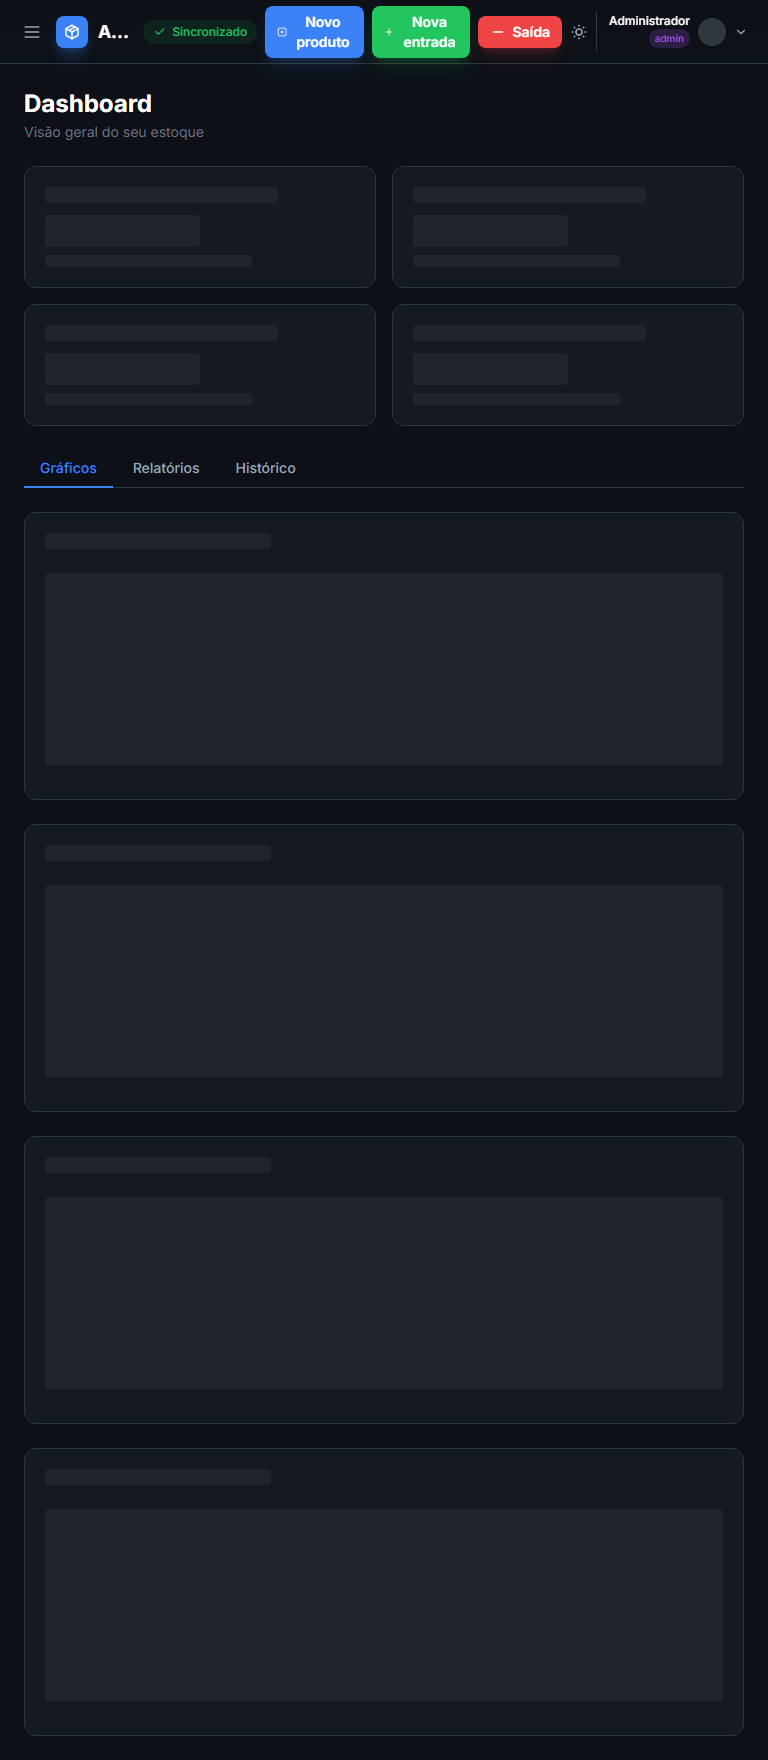
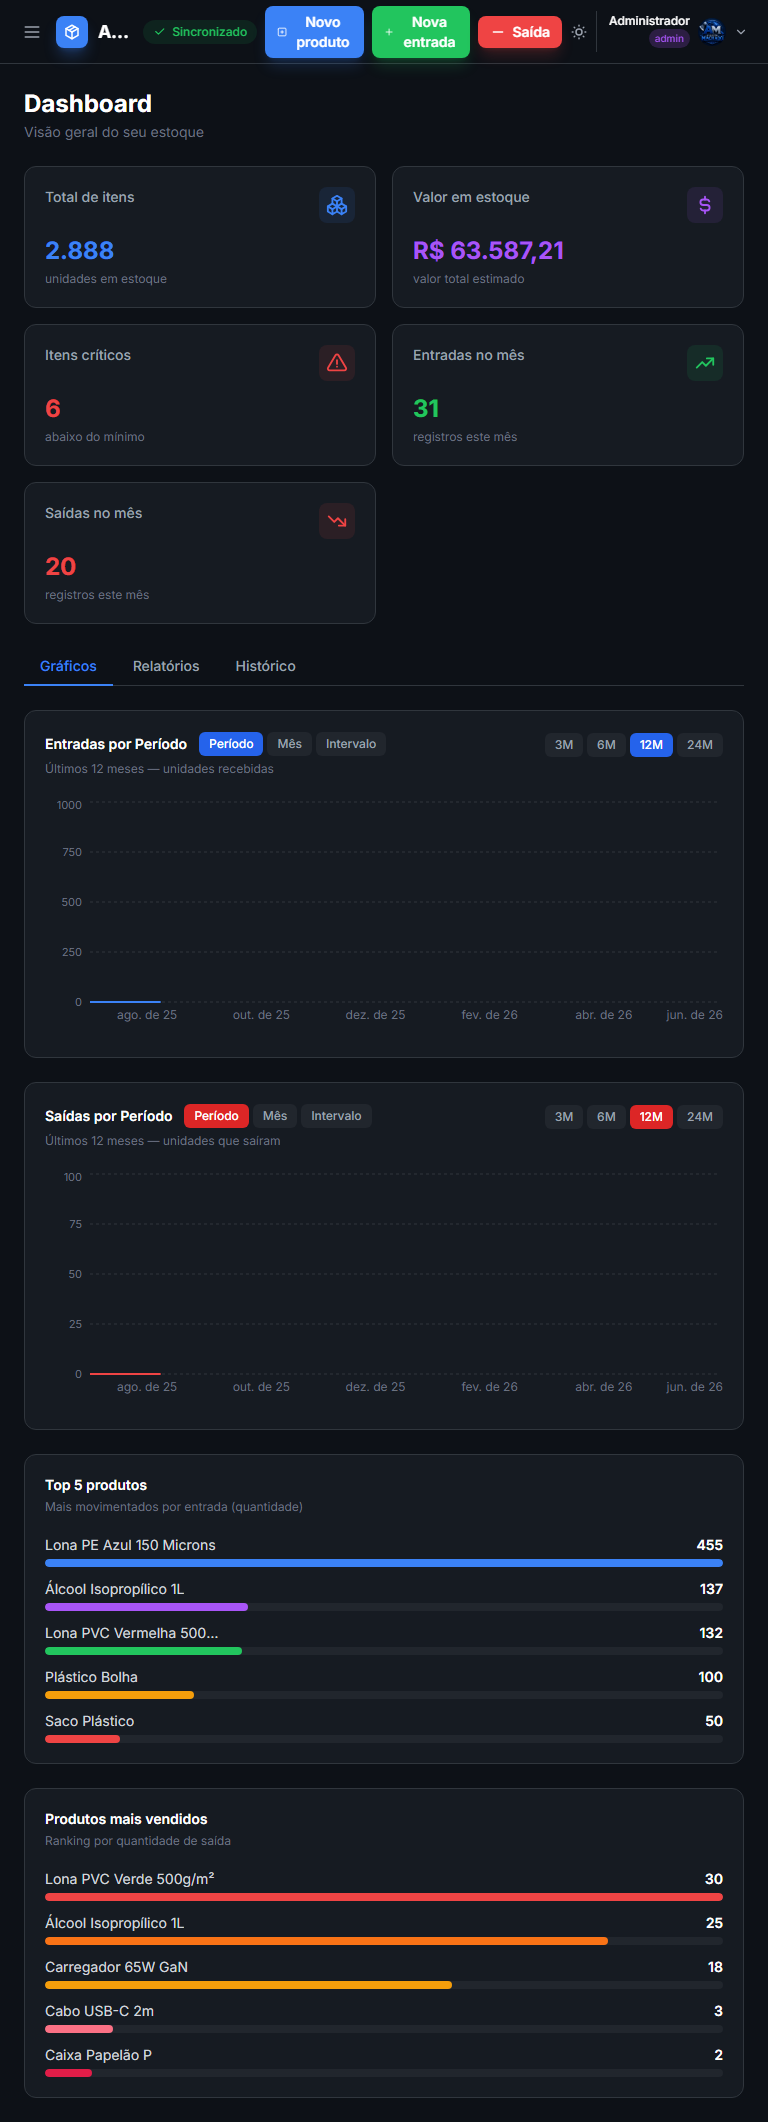
fix: sell value

diff --git a/src/components/NovoProduto/NovoProdutoModal.tsx b/src/components/NovoProduto/NovoProdutoModal.tsx
@@ -4,7 +4,7 @@ import { IconX, IconLoader2, IconPackages } from '@tabler/icons-react'
 import { db } from '../../services/supabase'
 import { useToast } from '../shared/Toast'
 import { useAuth } from '../../hooks/useAuth'
-import { sanitizarNumero, paraNumero } from '../../utils/numero'
+import { sanitizarNumero, paraNumero, formatarMoeda } from '../../utils/numero'
 import { useLista } from '../../hooks/useLista'
 import { useCategorias } from '../../hooks/useCategorias'
 import { SelectComAdicionar, type Opcao } from '../shared/SelectComAdicionar'
@@ -25,6 +25,8 @@ interface FormProduto {
   cor: string
   fornecedor_id: string
   custo_unitario: string
+  venda_valor: string
+  venda_percentual: string
   estoque_minimo: string
   quantidade_inicial: string
   local_armazenamento: string
@@ -50,6 +52,8 @@ const FORM_INICIAL: FormProduto = {
   cor: '',
   fornecedor_id: '',
   custo_unitario: '',
+  venda_valor: '',
+  venda_percentual: '',
   estoque_minimo: '',
   quantidade_inicial: '',
   local_armazenamento: 'Estoque A',
@@ -59,6 +63,8 @@ export function NovoProdutoModal({ onFechar, onSalvo }: Props) {
   const { mostrarToast } = useToast()
   const { usuario } = useAuth()
   const [form, setForm] = useState<FormProduto>(FORM_INICIAL)
+  // Como o usuário informa a venda: valor direto (R$) ou margem (%) sobre o custo
+  const [modoVenda, setModoVenda] = useState<'valor' | 'percentual'>('valor')
   const [salvando, setSalvando] = useState(false)
   const [erros, setErros] = useState<Partial<Record<keyof FormProduto, string>>>({})
 
@@ -105,6 +111,16 @@ export function NovoProdutoModal({ onFechar, onSalvo }: Props) {
   // Rótulo do custo conforme a unidade selecionada (ex.: "Custo por metro" / R$/m)
   const custoInfo = infoUnidade(form.unidade)
 
+  // Preço de venda: só é permitido depois que o custo for informado. Pode ser
+  // digitado como valor (R$) ou como margem (%) sobre o custo.
+  const custoNum = paraNumero(form.custo_unitario)
+  const custoPreenchido = form.custo_unitario.trim() !== '' && custoNum > 0
+  const precoVenda = !custoPreenchido
+    ? 0
+    : modoVenda === 'percentual'
+      ? custoNum * (1 + paraNumero(form.venda_percentual) / 100)
+      : paraNumero(form.venda_valor)
+
   function set(campo: keyof FormProduto, valor: string) {
     setForm((prev) => ({ ...prev, [campo]: valor }))
     if (erros[campo]) setErros((prev) => ({ ...prev, [campo]: undefined }))
@@ -115,6 +131,8 @@ export function NovoProdutoModal({ onFechar, onSalvo }: Props) {
     if (!form.nome.trim()) novosErros.nome = 'Nome é obrigatório'
     if (!form.unidade) novosErros.unidade = 'Selecione uma unidade'
     if (paraNumero(form.custo_unitario) < 0) novosErros.custo_unitario = 'Custo não pode ser negativo'
+    if (modoVenda === 'valor' && paraNumero(form.venda_valor) < 0) novosErros.venda_valor = 'Valor não pode ser negativo'
+    if (modoVenda === 'percentual' && paraNumero(form.venda_percentual) < 0) novosErros.venda_percentual = 'Percentual não pode ser negativo'
     if (paraNumero(form.estoque_minimo) < 0) novosErros.estoque_minimo = 'Valor não pode ser negativo'
     if (paraNumero(form.quantidade_inicial) < 0) novosErros.quantidade_inicial = 'Valor não pode ser negativo'
     setErros(novosErros)
@@ -126,23 +144,26 @@ export function NovoProdutoModal({ onFechar, onSalvo }: Props) {
     if (!validar()) return
     setSalvando(true)
     try {
-      const { data: produto, error: erroProduto } = await db
-        .produtos()
-        .insert({
-          codigo: codigoGerado,
-          nome: form.nome.trim(),
-          categoria: form.categoria.trim() || null,
-          unidade: form.unidade,
-          cor: form.cor.trim() || null,
-          fornecedor_id: form.fornecedor_id || null,
-          custo_unitario: paraNumero(form.custo_unitario) || null,
-          estoque_minimo: paraNumero(form.estoque_minimo),
-          local_armazenamento: form.local_armazenamento || null,
-        })
-        .select('id')
-        .single()
+      const dadosBase = {
+        codigo: codigoGerado,
+        nome: form.nome.trim(),
+        categoria: form.categoria.trim() || null,
+        unidade: form.unidade,
+        cor: form.cor.trim() || null,
+        fornecedor_id: form.fornecedor_id || null,
+        custo_unitario: paraNumero(form.custo_unitario) || null,
+        estoque_minimo: paraNumero(form.estoque_minimo),
+        local_armazenamento: form.local_armazenamento || null,
+      }
+      const precoVendaFinal = custoPreenchido && precoVenda > 0 ? Number(precoVenda.toFixed(2)) : null
 
-      if (erroProduto) throw new Error(erroProduto.message)
+      // Tenta com preco_venda; se a coluna ainda não existir, grava sem ela.
+      let resp = await db.produtos().insert({ ...dadosBase, preco_venda: precoVendaFinal }).select('id').single()
+      if (resp.error && /preco_venda|column/i.test(resp.error.message)) {
+        resp = await db.produtos().insert(dadosBase).select('id').single()
+      }
+      const produto = resp.data
+      if (resp.error || !produto) throw new Error(resp.error?.message ?? 'Falha ao cadastrar o produto')
 
       const quantidadeInicial = paraNumero(form.quantidade_inicial)
 
@@ -321,6 +342,59 @@ export function NovoProdutoModal({ onFechar, onSalvo }: Props) {
               />
               {erros.estoque_minimo && <p className="text-xs text-brand-red mt-1">{erros.estoque_minimo}</p>}
             </div>
+          </div>
+
+          {/* Preço de venda — só habilita depois que o custo for informado */}
+          <div>
+            <div className="flex items-center justify-between mb-1.5">
+              <label className="block text-xs font-medium text-gray-400">
+                Venda por {custoInfo.nome}
+              </label>
+              <div className="flex items-center gap-0.5 bg-dark-hover border border-dark-border rounded-md p-0.5">
+                {([['valor', 'R$'], ['percentual', '% sobre custo']] as const).map(([m, rotulo]) => (
+                  <button
+                    key={m}
+                    type="button"
+                    disabled={!custoPreenchido}
+                    onClick={() => setModoVenda(m)}
+                    className={`px-2 py-0.5 text-[11px] rounded transition-colors disabled:opacity-40 disabled:cursor-not-allowed ${
+                      modoVenda === m ? 'bg-brand-blue text-white' : 'text-gray-400 hover:text-white'
+                    }`}
+                  >
+                    {rotulo}
+                  </button>
+                ))}
+              </div>
+            </div>
+            <div className="relative">
+              <input
+                type="text"
+                inputMode="decimal"
+                disabled={!custoPreenchido}
+                value={modoVenda === 'valor' ? form.venda_valor : form.venda_percentual}
+                onChange={(e) => set(modoVenda === 'valor' ? 'venda_valor' : 'venda_percentual', sanitizarNumero(e.target.value, true))}
+                placeholder={modoVenda === 'valor' ? '0,00' : '0'}
+                className={`w-full bg-dark-bg border rounded-lg pl-3 pr-16 py-2 text-sm text-white placeholder-gray-600 focus:outline-none focus:border-brand-blue transition-colors disabled:opacity-50 disabled:cursor-not-allowed ${
+                  erros.venda_valor || erros.venda_percentual ? 'border-brand-red' : 'border-dark-border'
+                }`}
+              />
+              <span className="absolute right-3 top-1/2 -translate-y-1/2 text-xs text-gray-500 pointer-events-none">
+                {modoVenda === 'valor' ? `R$/${custoInfo.abrev}` : '%'}
+              </span>
+            </div>
+            {(erros.venda_valor || erros.venda_percentual) ? (
+              <p className="text-xs text-brand-red mt-1">{erros.venda_valor || erros.venda_percentual}</p>
+            ) : !custoPreenchido ? (
+              <p className="text-[11px] text-gray-600 mt-1">Informe o custo acima para definir a venda.</p>
+            ) : modoVenda === 'percentual' ? (
+              <p className="text-[11px] text-gray-500 mt-1">
+                Venda: <span className="text-brand-green font-semibold">{formatarMoeda(precoVenda)}</span> /{custoInfo.abrev}
+              </p>
+            ) : precoVenda > 0 && precoVenda >= custoNum ? (
+              <p className="text-[11px] text-gray-500 mt-1">
+                Margem: <span className="text-brand-green font-semibold">+{(((precoVenda - custoNum) / custoNum) * 100).toFixed(1).replace('.', ',')}%</span> sobre o custo
+              </p>
+            ) : null}
           </div>
 
           {/* Quantidade inicial */}

diff --git a/e2e/custo-por-unidade.spec.ts b/e2e/custo-por-unidade.spec.ts
@@ -16,17 +16,17 @@ async function abrirNovoProduto(page: Page) {
 test('Novo produto: rótulo do custo muda conforme a unidade', async ({ page }) => {
   await abrirNovoProduto(page)
 
-  // Padrão UN
+  // Padrão UN (o sufixo R$/un aparece no custo e na venda → .first() = o do custo)
   await expect(page.getByText('Custo por unidade')).toBeVisible()
-  await expect(page.getByText('R$/un')).toBeVisible()
+  await expect(page.getByText('R$/un').first()).toBeVisible()
 
   // Troca para Metro (combo de unidade mostra "Unidade (UN)")
   await escolherNoCombo(page, 'Unidade (UN)', 'Metro', 'Metro (M)')
   await expect(page.getByText('Custo por metro')).toBeVisible()
-  await expect(page.getByText('R$/m', { exact: true })).toBeVisible()
+  await expect(page.getByText('R$/m', { exact: true }).first()).toBeVisible()
 
   // Troca para Quilograma (agora o gatilho mostra "Metro (M)")
   await escolherNoCombo(page, 'Metro (M)', 'Quilograma', 'Quilograma (KG)')
   await expect(page.getByText('Custo por quilograma')).toBeVisible()
-  await expect(page.getByText('R$/kg')).toBeVisible()
+  await expect(page.getByText('R$/kg').first()).toBeVisible()
 })

diff --git a/src/types/index.ts b/src/types/index.ts
@@ -23,6 +23,7 @@ export interface Produto {
   unidade: string
   cor: string | null
   custo_unitario: number | null
+  preco_venda?: number | null // preço de venda por unidade (opcional)
   desconto: number | null // percentual de desconto (0–100)
   desconto_inicio: string | null // data de início da vigência (opcional)
   desconto_fim: string | null // data de fim da vigência (opcional)